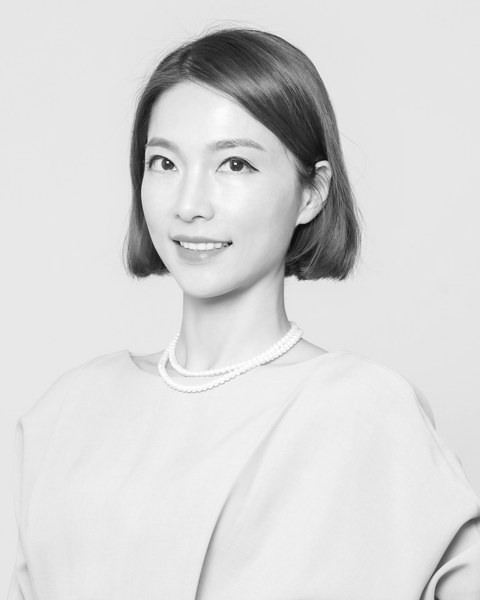
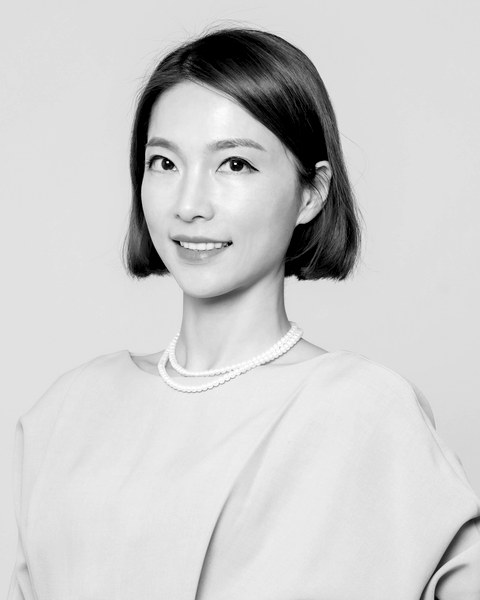
Cache-bust teacher photos, boost contrast on disaem's photo
The re-cropped teacher photos from the last change had no cache-
busting query param, so browsers kept serving the old cropped-too-
tight versions even after redeploy — looked like heads were still
cut off. Add ?v=2 to every teacher image reference.

Also normalize() 디쌤's photo specifically; the raw grayscale
conversion looked washed out/overexposed compared to the rest of
the set.

diff --git a/index.html b/index.html
@@ -194,58 +194,58 @@
     </div>
     <div class="carousel carousel-teachers" data-carousel>
       <div class="carousel-track">
-        <div class="carousel-slide tcard lightbox-trigger" data-name="디쌤" data-role="원장 · 영어" data-photo="assets/teacher-disaem.jpg">
-          <div class="tcard-photo-wrap"><img class="tcard-photo" src="assets/teacher-disaem.jpg" alt="디쌤"></div>
+        <div class="carousel-slide tcard lightbox-trigger" data-name="디쌤" data-role="원장 · 영어" data-photo="assets/teacher-disaem.jpg?v=2">
+          <div class="tcard-photo-wrap"><img class="tcard-photo" src="assets/teacher-disaem.jpg?v=2" alt="디쌤"></div>
           <h3>디쌤</h3>
           <p class="tcard-role">원장 · 영어</p>
         </div>
-        <div class="carousel-slide tcard lightbox-trigger" data-name="김진우" data-role="부원장 · 국어" data-photo="assets/teacher-kimjinwoo.jpg">
-          <div class="tcard-photo-wrap"><img class="tcard-photo" src="assets/teacher-kimjinwoo.jpg" alt="김진우"></div>
+        <div class="carousel-slide tcard lightbox-trigger" data-name="김진우" data-role="부원장 · 국어" data-photo="assets/teacher-kimjinwoo.jpg?v=2">
+          <div class="tcard-photo-wrap"><img class="tcard-photo" src="assets/teacher-kimjinwoo.jpg?v=2" alt="김진우"></div>
           <h3>김진우</h3>
           <p class="tcard-role">부원장 · 국어</p>
         </div>
-        <div class="carousel-slide tcard lightbox-trigger" data-name="김금단" data-role="팀장 · 영어" data-photo="assets/teacher-kimgeumdan.jpg">
-          <div class="tcard-photo-wrap"><img class="tcard-photo" src="assets/teacher-kimgeumdan.jpg" alt="김금단"></div>
+        <div class="carousel-slide tcard lightbox-trigger" data-name="김금단" data-role="팀장 · 영어" data-photo="assets/teacher-kimgeumdan.jpg?v=2">
+          <div class="tcard-photo-wrap"><img class="tcard-photo" src="assets/teacher-kimgeumdan.jpg?v=2" alt="김금단"></div>
           <h3>김금단</h3>
           <p class="tcard-role">팀장 · 영어</p>
         </div>
-        <div class="carousel-slide tcard lightbox-trigger" data-name="배경호" data-role="팀장 · 수학" data-photo="assets/teacher-baekyungho.jpg">
-          <div class="tcard-photo-wrap"><img class="tcard-photo" src="assets/teacher-baekyungho.jpg" alt="배경호"></div>
+        <div class="carousel-slide tcard lightbox-trigger" data-name="배경호" data-role="팀장 · 수학" data-photo="assets/teacher-baekyungho.jpg?v=2">
+          <div class="tcard-photo-wrap"><img class="tcard-photo" src="assets/teacher-baekyungho.jpg?v=2" alt="배경호"></div>
           <h3>배경호</h3>
           <p class="tcard-role">팀장 · 수학</p>
         </div>
-        <div class="carousel-slide tcard lightbox-trigger" data-name="신병철" data-role="수학" data-photo="assets/teacher-shinbyungchul.jpg">
-          <div class="tcard-photo-wrap"><img class="tcard-photo" src="assets/teacher-shinbyungchul.jpg" alt="신병철"></div>
+        <div class="carousel-slide tcard lightbox-trigger" data-name="신병철" data-role="수학" data-photo="assets/teacher-shinbyungchul.jpg?v=2">
+          <div class="tcard-photo-wrap"><img class="tcard-photo" src="assets/teacher-shinbyungchul.jpg?v=2" alt="신병철"></div>
           <h3>신병철</h3>
           <p class="tcard-role">수학</p>
         </div>
-        <div class="carousel-slide tcard lightbox-trigger" data-name="안소현" data-role="국어" data-photo="assets/teacher-ansoseon.jpg">
-          <div class="tcard-photo-wrap"><img class="tcard-photo" src="assets/teacher-ansoseon.jpg" alt="안소현"></div>
+        <div class="carousel-slide tcard lightbox-trigger" data-name="안소현" data-role="국어" data-photo="assets/teacher-ansoseon.jpg?v=2">
+          <div class="tcard-photo-wrap"><img class="tcard-photo" src="assets/teacher-ansoseon.jpg?v=2" alt="안소현"></div>
           <h3>안소현</h3>
           <p class="tcard-role">국어</p>
         </div>
-        <div class="carousel-slide tcard lightbox-trigger" data-name="최윤후" data-role="영어" data-photo="assets/teacher-choiyoonhoo.jpg">
-          <div class="tcard-photo-wrap"><img class="tcard-photo" src="assets/teacher-choiyoonhoo.jpg" alt="최윤후"></div>
+        <div class="carousel-slide tcard lightbox-trigger" data-name="최윤후" data-role="영어" data-photo="assets/teacher-choiyoonhoo.jpg?v=2">
+          <div class="tcard-photo-wrap"><img class="tcard-photo" src="assets/teacher-choiyoonhoo.jpg?v=2" alt="최윤후"></div>
           <h3>최윤후</h3>
           <p class="tcard-role">영어</p>
         </div>
-        <div class="carousel-slide tcard lightbox-trigger" data-name="조윤성" data-role="수학" data-photo="assets/teacher-jhoyoonsung.jpg">
-          <div class="tcard-photo-wrap"><img class="tcard-photo" src="assets/teacher-jhoyoonsung.jpg" alt="조윤성"></div>
+        <div class="carousel-slide tcard lightbox-trigger" data-name="조윤성" data-role="수학" data-photo="assets/teacher-jhoyoonsung.jpg?v=2">
+          <div class="tcard-photo-wrap"><img class="tcard-photo" src="assets/teacher-jhoyoonsung.jpg?v=2" alt="조윤성"></div>
           <h3>조윤성</h3>
           <p class="tcard-role">수학</p>
         </div>
-        <div class="carousel-slide tcard lightbox-trigger" data-name="장효진" data-role="국어" data-photo="assets/teacher-jangHyojin.jpg">
-          <div class="tcard-photo-wrap"><img class="tcard-photo" src="assets/teacher-jangHyojin.jpg" alt="장효진"></div>
+        <div class="carousel-slide tcard lightbox-trigger" data-name="장효진" data-role="국어" data-photo="assets/teacher-jangHyojin.jpg?v=2">
+          <div class="tcard-photo-wrap"><img class="tcard-photo" src="assets/teacher-jangHyojin.jpg?v=2" alt="장효진"></div>
           <h3>장효진</h3>
           <p class="tcard-role">국어</p>
         </div>
-        <div class="carousel-slide tcard lightbox-trigger" data-name="김정민" data-role="통합사회 · 한국사" data-photo="assets/teacher-kimjeongmin.jpg">
-          <div class="tcard-photo-wrap"><img class="tcard-photo" src="assets/teacher-kimjeongmin.jpg" alt="김정민"></div>
+        <div class="carousel-slide tcard lightbox-trigger" data-name="김정민" data-role="통합사회 · 한국사" data-photo="assets/teacher-kimjeongmin.jpg?v=2">
+          <div class="tcard-photo-wrap"><img class="tcard-photo" src="assets/teacher-kimjeongmin.jpg?v=2" alt="김정민"></div>
           <h3>김정민</h3>
           <p class="tcard-role">통합사회 · 한국사</p>
         </div>
-        <div class="carousel-slide tcard lightbox-trigger" data-name="박찬미" data-role="국어" data-photo="assets/teacher-parkchanmi.jpg">
-          <div class="tcard-photo-wrap"><img class="tcard-photo" src="assets/teacher-parkchanmi.jpg" alt="박찬미"></div>
+        <div class="carousel-slide tcard lightbox-trigger" data-name="박찬미" data-role="국어" data-photo="assets/teacher-parkchanmi.jpg?v=2">
+          <div class="tcard-photo-wrap"><img class="tcard-photo" src="assets/teacher-parkchanmi.jpg?v=2" alt="박찬미"></div>
           <h3>박찬미</h3>
           <p class="tcard-role">국어</p>
         </div>

diff --git a/process-teachers.js b/process-teachers.js
@@ -9,7 +9,7 @@ const OUT_W = 480, OUT_H = 600; // 4:5 portrait, consistent across all cards
 // original W/H). Boxes are pre-shaped close to the 4:5 target ratio so
 // the auto-fit step below only needs to make small adjustments.
 const photos = [
-  { file: '디쌤 원장 프로필.jpg', out: 'teacher-disaem.jpg', top: 0.07, bottom: 0.88, left: 0.1635, right: 0.8115 },
+  { file: '디쌤 원장 프로필.jpg', out: 'teacher-disaem.jpg', top: 0.07, bottom: 0.88, left: 0.1635, right: 0.8115, normalize: true },
   { file: '김진우 프로필.jpg', out: 'teacher-kimjinwoo.jpg', top: 0.05, bottom: 0.90, left: 0.15, right: 0.83 },
   { file: '김금단 프로필.png', out: 'teacher-kimgeumdan.jpg', top: 0.06, bottom: 0.87, left: 0.176, right: 0.824 },
   { file: '배경호 프로필.jpg', out: 'teacher-baekyungho.jpg', top: 0.075, bottom: 0.90, left: 0.1825, right: 0.8425 },
@@ -55,12 +55,12 @@ const targetRatio = OUT_W / OUT_H; // 0.8
     boxW = Math.min(boxW, meta.width - boxLeft);
     boxH = Math.min(boxH, meta.height - boxTop);
 
-    await sharp(SRC + p.file)
+    let pipeline = sharp(SRC + p.file)
       .extract({ left: boxLeft, top: boxTop, width: boxW, height: boxH })
       .resize(OUT_W, OUT_H, { fit: 'cover' })
-      .grayscale()
-      .jpeg({ quality: 88 })
-      .toFile('assets/' + p.out);
+      .grayscale();
+    if (p.normalize) pipeline = pipeline.normalize();
+    await pipeline.jpeg({ quality: 88 }).toFile('assets/' + p.out);
     console.log('done', p.out, boxLeft, boxTop, boxW, boxH);
   }
 })();
